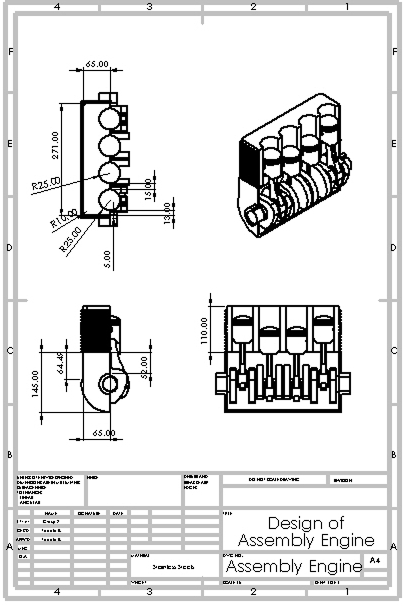
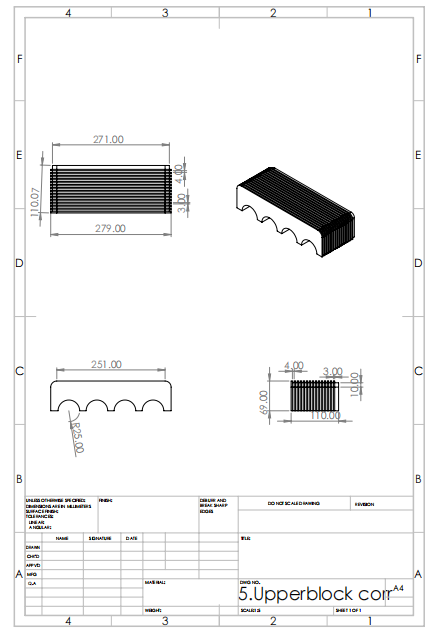
mechanical video url cooroect and worked

diff --git a/portfolio/src/components/Project/ShowMechanical.jsx b/portfolio/src/components/Project/ShowMechanical.jsx
@@ -6,7 +6,7 @@ const ShowMechanical = ({ project }) => {
   return (
     <div className="min-h-screen pt-20 pb-10 px-4">
       <div className="max-w-6xl mx-auto">
-        
+
         {/* Header */}
         <div className="text-center mb-8">
           <h1 className="text-3xl font-bold text-gray-800 mb-4">
@@ -20,17 +20,16 @@ const ShowMechanical = ({ project }) => {
 
         {/* Media Section - Desktop Layout */}
         <div className="flex flex-col  gap-8 mb-8">
-          
+
           {/* Left Side - Video (Larger) */}
-          <div className="">
+          <div className="flex flex-col">
             {project.videoUrl && (
-              <div className="md:p-4 ">
+              <div className="md:p-4">
                 <div className="relative pt-[50%] bg-black rounded-lg overflow-hidden">
-                  <iframe
+                  <video
                     src={project.videoUrl}
                     className="absolute top-0 left-0 w-full h-full"
-                    frameBorder="0"
-                    allowFullScreen
+                    controls
                   />
                 </div>
                 <p className="text-center text-gray-600 mt-2">Project Video</p>
@@ -86,21 +85,19 @@ const ShowMechanical = ({ project }) => {
           <div className="flex border-b">
             <button
               onClick={() => setActiveTab("description")}
-              className={`flex-1 py-4 font-medium ${
-                activeTab === "description" 
-                  ? "text-cyan-500 border-b-2 border-cyan-400" 
-                  : "text-gray-600"
-              }`}
+              className={`flex-1 py-4 font-medium ${activeTab === "description"
+                ? "text-cyan-500 border-b-2 border-cyan-400"
+                : "text-gray-600"
+                }`}
             >
               Description
             </button>
             <button
               onClick={() => setActiveTab("features")}
-              className={`flex-1 py-4 font-medium ${
-                activeTab === "features" 
-                  ? "text-cyan-500 border-b-2 border-cyan-400" 
-                  : "text-gray-600"
-              }`}
+              className={`flex-1 py-4 font-medium ${activeTab === "features"
+                ? "text-cyan-500 border-b-2 border-cyan-400"
+                : "text-gray-600"
+                }`}
             >
               Features
             </button>
@@ -113,7 +110,7 @@ const ShowMechanical = ({ project }) => {
                 {project.richDescription ? (
                   <div
                     className="text-text-secondary leading-8 rich-text"
-                   dangerouslySetInnerHTML={{ __html: project.richDescription }} />
+                    dangerouslySetInnerHTML={{ __html: project.richDescription }} />
                 ) : (
                   <p className="text-gray-600 leading-relaxed">{project.description}</p>
                 )}
@@ -134,7 +131,7 @@ const ShowMechanical = ({ project }) => {
           </div>
         </div>
 
-        
+
       </div>
     </div>
   );

diff --git a/portfolio/src/assets/data.js b/portfolio/src/assets/data.js
@@ -493,7 +493,7 @@ export const projects = [
     shortDescription: "3D modeling and assembly of engine parts in SolidWorks",
     description: "During my Mechanical Engineering studies at Bahir Dar University, I designed and modeled this engine project on my own. I created all parts, including the piston, piston pin, connecting rod, crankshaft, upper block, and lower block, and assembled them into a complete engine model. This project helped me practice important SolidWorks skills like sketching, extrusion, revolved features, cuts, chamfers, fillets, patterns, and assembly mates.",
     imageUrl: assets.engine_thumbnail,
-    videoUrl: "https://www.youtube.com/watch?v=FhguwBJeqWs&list=PL4cUxeGkcC9haFPT7J25Q9GRB_ZkFrQAc",
+    videoUrl: "https://ia601409.us.archive.org/16/items/soldiworks/soldiworks.mp4",
     images: [
       assets.mech1,
       assets.mech2,
@@ -508,6 +508,9 @@ export const projects = [
       assets.mech11,
       assets.mech12,
       assets.mech13,
+      assets.mech14,
+      assets.mech15,
+      assets.mech16,
     ],
 
     status: "live",

diff --git a/portfolio/src/assets/assets.js b/portfolio/src/assets/assets.js
@@ -76,6 +76,11 @@ import mech10 from './mechanicali-img/mech-10.png';
 import mech11 from './mechanicali-img/mech-11.png';
 import mech12 from './mechanicali-img/mech-12.png';
 import mech13 from './mechanicali-img/mech-13.png';
+import mech14 from './mechanicali-img/mech-14.png';
+import mech15 from './mechanicali-img/mech-15.png';
+import mech16 from './mechanicali-img/mech-16.png';
+
+
 
 
 
@@ -162,8 +167,9 @@ const assets = {
     mech11,
     mech12,
     mech13,
-
-
+    mech14,
+    mech15,
+    mech16,
 
 
 
